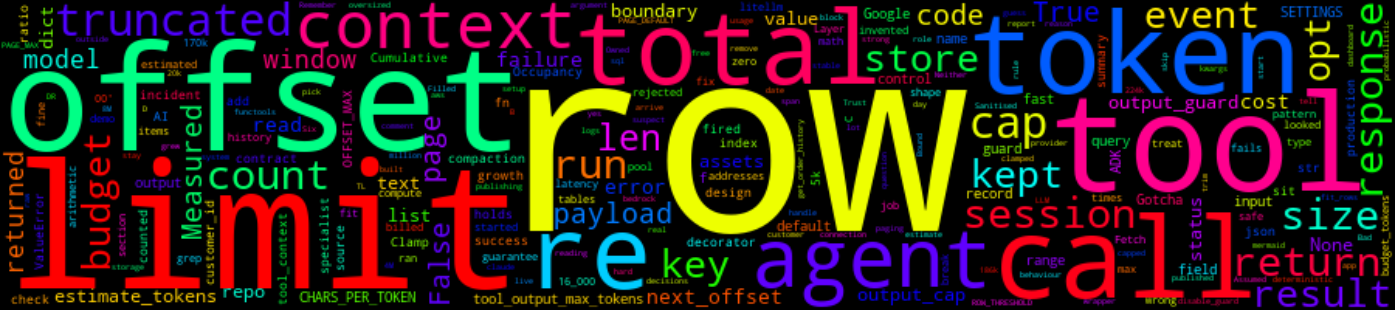
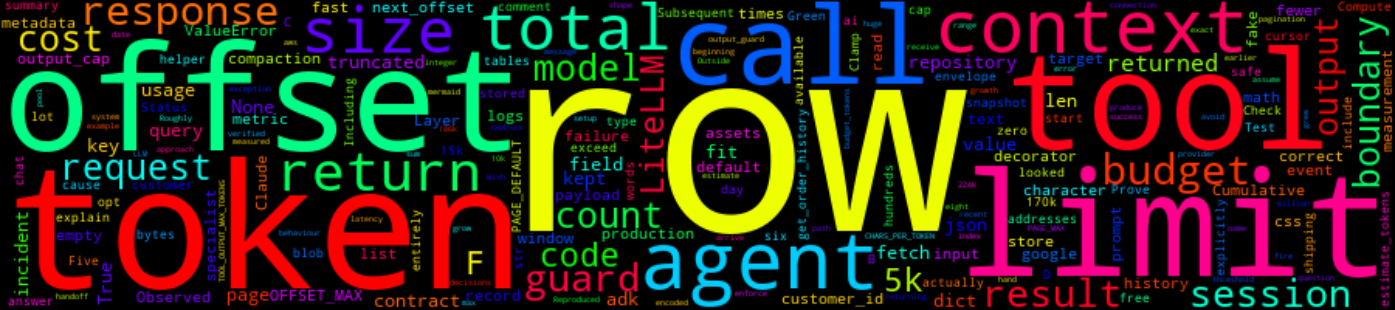
Update blog post title for clarity, add new images, and refine content for better readability

diff --git a/_posts/2026-10-23-a-0-1-second-tool-call-filled-my-agents-context-window.md b/_posts/2026-10-23-a-0-1-second-tool-call-filled-my-agents-context-window.md
@@ -1,6 +1,6 @@
 ---
 layout: post
-title: "A 0.1-Second Tool Call Filled My Agent's Context Window: Handling Large Tool Responses at Scale"
+title: "How a 0.1-Second Tool Call Flooded My AI Agent With 180,000 Tokens: Handling Large Tool Responses at Scale"
 date: 2026-10-23 22:34:12.000000000 +02:00
 use-mermaid: true
 css:
@@ -23,25 +23,24 @@ tags:
 
 ---
 
-> _Disclaimer: AI-assisted editing and structure. The incident, technical decisions, analysis, and opinions are mine. The domain, tables, SQL and code below are invented (an online store) so nothing here points at a real system. The measurements from the incident are real._
+> *Disclaimer: AI-assisted editing and structure. The incident, technical decisions, analysis, and opinions are mine. The domain, tables, SQL and code below are invented (an online store) so nothing here points at a real system. The measurements from the incident are real.*
 
 ---
 
-A user opened a chat with our AI agent, asked a follow-up question, and got an error two seconds later. Two seconds. That was not a timeout, that was the system slamming the door on the users face.
+A user opened a chat with our AI agent, asked a follow-up question, and got an error two seconds later. Two seconds. That was not a timeout. That was the system slamming the door in the user’s face.
 
-I went to opensearch expecting a crash from the logs and found nothing of the sort. Turn one ran for 8 minutes 39 seconds, made 15 LLM calls and 24 tool calls, and finished with zero errors. Turn two died about two seconds after its model call started. The one number I could pull from that turn was its context size: **463,976 tokens.** *(Yes, that is a lot of tokens. No, I did not type that much.)*
+I went to OpenSearch expecting a crash in the logs and found nothing of the sort. Turn one ran for 8 minutes 39 seconds, made 15 LLM calls and 24 tool calls, and finished with zero errors. Turn two died about two seconds after its model call started. The one number I could pull from that turn was its context size: **463,976 tokens.** *(Yes, that is a lot of tokens. No, I did not type that much.)*
 
-That number is where this story starts, not where it ends. I could show how the context grew. I couldn't show that it killed turn two. The last section says what I have and what I don't. *(The logs also didn't say much about exceptions in general. That's a different post.)*
+That number is where this story starts, not where it ends. I could show how the context grew. I couldn't show that it killed turn two. I’ll separate what I measured from what I suspect later in the post. *(The logs also didn't say much about exceptions in general. That's a different post.)*
 
 ---
 
 ## TL;DR
 
 The tool was correct. The design around it was not. A deterministic function returned exactly what it was asked for, and nothing at the boundary to the model said how much was too much.
-
 - A tool call that returned in **0.10 seconds** took a specialist agent's context from 5.5k to 186k tokens. Another agent went from 10k to as high as 224k after six parallel tool calls.
 - My first guard counted **rows** (200 max). Each row was about 900 tokens, so one call put roughly 180k tokens into context and the guard never fired. Every later LLM call in that turn re-sent it.
-- Cap by **tokens, not rows**, after the page size. A cap that is strong but not hard: one row bigger than the budget still goes out, so the tool must handle that row itself.
+- Cap by **tokens, not rows**, after the page size. A useful cap, not a hard guarantee: one row bigger than the budget still goes out, so the tool must handle that row itself.
 - Don't let the model add up numbers. Compute exact totals in code.
 - My guard was opt-in per tool, which means it **fails open**. That is the weakest part of what I built.
 
@@ -49,11 +48,15 @@ The tool was correct. The design around it was not. A deterministic function ret
 
 ## The Story
 
+The setup: a multi-agent system built on [Google ADK](https://google.github.io/adk-docs/), running Claude on AWS Bedrock through LiteLLM. An orchestrator hands the turn to a specialist agent. The specialist calls tools, reads the results, and writes an answer back.
+
+> If you haven't worked with multi-agent systems, think of the orchestrator as the person at the front desk. You ask about your order; it sends the question to the orders specialist. Ask where the parcel is; it calls in the shipping specialist. The specialists do the actual lookup, and the orchestrator helps get the answer back to you.
+
 {:refdef: style="text-align: center;"}
 ![fast tool call context growth]({{ "/assets/2026-10-23-fast-tool-call-context-growth.png" | relative_url }}){: loading="lazy"}
 {: refdef}
 
-The setup: a multi-agent system built on [Google ADK](https://google.github.io/adk-docs/), running Claude on AWS Bedrock through LiteLLM. An orchestrator hands the turn to a specialist agent. The specialist calls tools, reads the results, and writes an answer back.
+In this setup, Google ADK coordinates those agents, LiteLLM connects the application to the model, and Claude runs through AWS Bedrock. The database tools are ordinary application code. No magic there. The surprise is what happens **after** the tool has done its job.
 
 A tool's return value becomes a `function_response` event in the session. The next model call is built from the session's events, so that result is in the prompt for every later call in the same turn. The tool's job ends at the return. Its output does not.
 
@@ -64,9 +67,11 @@ I pulled up the token metrics and found two things that made me put my coffee do
 | Order history | 5.5k tokens | **186k tokens** | One tool call, 0.10 seconds |
 | Shipping | 10k tokens | **224k tokens** | Six parallel tool calls |
 
-The tool was fast. It also returned a *lot* of rows, very quickly.
+The tool was fast. It also returned a **lot** of rows, very quickly.
 
-Nothing was slow. Nothing errored. Every row was correct. The tool did what its docstring promised: "return the customer's orders". The customer just had hundreds of them, and I had never asked what "all the orders" costs when the reader is a language model that re-reads everything on every call.
+> Picture the customer asking, "What happened to my last few orders?" The specialist opens the order history, and instead of bringing back the handful of orders relevant to the question, it brings back the whole filing cabinet. That's an illustration, not a transcript of the real user's question. But it is a useful way of understanding the mistake: the lookup succeeded; we just let the answer to the lookup become much bigger than the answer the user needed.
+
+Nothing was slow. Nothing errored. Every row was correct. The tool did what its docstring promised: *"return the customer's orders"*. The customer just had hundreds of them, and I had never asked what *"all the orders"* costs when the reader is a language model that re-reads everything on every call.
 
 The wider logs told the same story. Over 7 days of production logs (counts only):
 
@@ -74,20 +79,27 @@ The wider logs told the same story. Over 7 days of production logs (counts only)
 - First failure came on turn 1 for 6 sessions, turn 2 for 3, turn 3 for 2 and turn 4 for 2. "Turn" here means completed responses logged before the failure. I did not verify session start times.
 - The context-size figure I logged at failure clustered near **1.4M** and **2.8M** tokens. I have not checked whether that is window size or cumulative input. Treat it as open until I have.
 
+
 ---
 
-## "But I Had a Guard!"
+## "But I Had a Guard! So I Thought"
 
-I mean I did. I want that on the record. We have a helper/decorator function that said: *if a tool returns more than 200 rows, truncate and warn.* Responsible adult behaviour right!
+I mean I did. I want that on the record. We have a helper/decorator function that says: ***if a tool returns more than 200 rows, truncate and warn.*** Responsible adult behaviour, right?
+
+{:refdef: style="text-align: center;"}
+![1793037839765]({{ "/assets/2026-10-23-a-0-1-second-tool-call-filled-my-agents-context-window-1793037839765.png" | relative_url }}){: loading="lazy"}
+{: refdef}
 
 A row limit caps rows, not tokens. Illustrative numbers, not measured:
 
-- 200 rows of 5 tokens each: 1,000 tokens. The row guard passes it, and it should.
-- 200 rows of 900 tokens each: 180,000 tokens. The row guard also passes it. Same rule, 180 times the cost.
+- 200 rows of 5 tokens each -> 1,000 tokens. The row guard passes it, as it should.
+- 200 rows of 900 tokens each -> 180,000 tokens. The row guard also passes it. Same rule, 180 times the cost.
 
-The tool returned fewer than 200 rows. *(Famous last words: "it's capped at 200, what's the worst that could happen?")* Each row carried free-text notes and nested fields, about 900 tokens per row. A single call was roughly 180k tokens, sitting comfortably under a limit that only knew how to count rows. Worse, the helper treated dict-shaped payloads as empty, so those never tripped it at all.
+Well the tool returned fewer than 200 rows. **(Famous last words: "it's capped at 200, what's the worst that could happen?")** Each row carried free-text notes and nested fields, about 900 tokens per row. A single call was roughly 180k tokens, sitting comfortably under a limit that only knew how to count rows. Worse, the helper treated dict-shaped payloads as empty, so those never tripped it at all.
 
-I also assumed history compaction would rescue me. It doesn't. The current setup trims old tool content but keeps the most recent events raw, so a huge result inside the retained window just sits there. Compaction is a late, lossy backstop. It is not a control.
+> Here's the trap. Imagine a rule saying a delivery van may carry only 200 boxes. Sensible, until you discover the boxes can be anything from a packet of paper clips to a refrigerator. Counting boxes tells you nothing about the weight. I counted rows. The model had to carry their contents.
+
+The assumption I had was that history compaction would rescue me. In this setup, it didn’t. The current setup trims old tool content but keeps the most recent events raw, so a huge result inside the retained window just sits there. Compaction is a late, lossy backstop. It is not a control.
 
 For illustration:
 
@@ -99,24 +111,32 @@ For illustration:
 
 ## The Boundary Nobody Owned
 
-Two kinds of component met in that tool call. The tool is deterministic: same query, same rows, same output every time. The model is probabilistic: it reads whatever arrives and writes the next step from it. Each side did its job. The problem sat in the gap between them.
+Two very different kinds of component met in that tool call.
+- The tool is **deterministic**: same query, same rows, same output every time.
+- The model is **probabilistic**: it reads what arrives and decides what to do next.
 
-The tool's contract said "return the customer's orders". It said nothing about size, and the model's contract said nothing about how much input it can take. Neither side owned the number that mattered most, so a single fast call could fill the window and the next call would pay for it again.
+Each side did its job. The problem sat in the gap between them.
 
-I can't prove this shape is common. It is one incident. But any time deterministic output feeds a model, the same gap is there. The controls in this post sit at that boundary:
+The tool's contract said *"return the customer's orders"*. It said nothing about size, and our integration contract did not enforce a limit on what the model would receive. Neither side owned the number that mattered most, so a single fast call could fill the window and the next call would pay for it again.
+
+I can't prove this shape is common. It is one incident, a single data point. But any time deterministic output feeds a model, the same gap is there. The controls in this post sit at that boundary:
 
 - **At the source:** the query decides what is fetched.
 - **At the boundary:** a wrapper sizes the output, pages it, and reports the total, whatever the tool returned.
 - **Outside the context:** the full result lives in a store, and the model holds only a page and a key.
 
-The rest of the post is these three controls, and the reason each one exists.
+The rest of the post discussess these three controls, and the reason each one exists.
 
 ## Why One Result Costs More Than Once
 
 Two numbers get mixed up here. They are different things.
 
+{:refdef: style="text-align: center;"}
+![Illustration](https://i.makeagif.com/media/5-21-2015/zlQRKF.gif){: loading="lazy"}
+{: refdef}
+
 - **Window occupancy:** how many tokens the model sees on one call. A 15k result adds 15k to it, and it stays until something removes it.
-- **Cumulative input:** the sum of input tokens over every call in the turn. Each call re-sends the whole context, so one result is billed once for every later call.
+- **Cumulative input:** the sum of input tokens over every call in the turn. In the observed call pattern, later requests include that result again. So a large result can contribute to input usage repeatedly, not just when the tool returns.
 
 Illustrative numbers, not measured. Assume 5k of history, a 15k tool result that arrives after call 2, and 10 model calls in the turn. Output tokens are left out.
 
@@ -127,26 +147,33 @@ Illustrative numbers, not measured. Assume 5k of history, a 15k tool result that
 
 Occupancy at call 10 goes from 5k to 20k. Cumulative input goes from 50k to 170k. One 15k result adds 120k billed input across the turn.
 
-So a result that arrives on call 2 costs more than the same result on call 14. And the "over 1 million input tokens" figure in the TL;DR is a sum across calls, not a window size.
+> That is the bit that caught me. It's like a meeting where everyone must reread the entire minutes before speaking. Someone drops a 200-page attachment into the minutes, and suddenly every follow-up question comes with 200 pages of homework. The file didn't get bigger. The number of times it had to be read did.
+
+For clarity, the table is deliberately simplified. Real requests also have instructions, messages, tool metadata and changing output; provider billing can involve caching and other details. The point is the repeated *input*, not an exact invoice calculation.
+
+So a result that arrives on call 2 costs more than the same result on call 14. And the *"over 1 million input tokens"* figure in the TL;DR is a sum across calls, not a window size.
 
 ---
 
 ## How ADK Holds the Context
 
-Google ADK keeps each session as a list of **events**. A user message, a model reply, a tool call and a tool result are each one event. Every model call is built from the session's events, so a big tool result stays in the session until something removes it.
+Google ADK keeps each session as a list of **events**. User messages, model replies, tool calls and tool results are represented in session events. Model requests are constructed from session history, subject to the framework’s context handling. A big tool response may therefore keep appearing in later requests; the persisted event count alone does not prove exactly which content was sent.
 
-- The orchestrator picks which specialist gets the turn. The specialist's tool calls and results are written to the same session.
+> Think of the session database as a notebook and the model request as the pages you actually hand to the reader. Finding 70 pages in the notebook doesn't prove the reader saw all 70. That's why I distinguish **events stored** from **events included in the next prompt**. I had evidence of the former, not a complete end-to-end trace of the latter after compaction.
+
+
+- The orchestrator routes work to a specialist. The specialist’s tool calls and responses appear in the session history.
 - A tool result is stored as a `function_response` event.
-- Compaction adds a summary event. It records a start and end time for the range it covers. The raw events in that range stay in the database.
+- Compaction adds a summary event. It records a start and end time for the range it covers. In the production records I inspected, the raw events in that range were still present in the database. That is a storage observation, not proof they were all sent to the model.
 
-What I measured on production (counts only, names removed):
+What I measured on production (counts only):
 
 - The 8 newest compaction events each covered **2 to 35 raw events**. Their sessions kept **44 to 77 events** in total.
 - In 3 of those sessions, I counted raw tool results inside the compacted range: **2, 0 and 10**.
 
 What I read in the code but did not measure end to end: what the model sees after compaction. I still need to verify that in practice.
 
-The check I ran to see how much one time range holds. Table and column names are invented, and I have not run this against a database (hides):
+An illustrative query for counting events inside a time range follows:
 
 ```sql
 -- How many raw events fall inside one compaction range?
@@ -155,10 +182,10 @@ FROM agent_events
 WHERE app_name = 'my_app'
   AND user_id = 'user-123'
   AND session_id = 'sess-456'
-  AND event_time BETWEEN '2026-10-22 00:00' AND '2026-10-23 00:00';
+  AND event_time BETWEEN '2026-10-22 00:00'::date AND '2026-10-23 00:00'::date;
 ```
 
-And the check that showed the cost problem. Same invented names:
+I also investigated the query-plan cost of a time-only event lookup:
 
 ```sql
 EXPLAIN
@@ -167,7 +194,7 @@ FROM agent_events
 WHERE event_time >= now() - interval '30 days';
 ```
 
-On production, a 30-day range like this had **no index to use**. The plan was a parallel sequential scan with cost **228,490**. Lookups by `app, user and session` used a composite index. A time-only range had no index at all. Memo-to-self: Check the plan before you trust a range query.
+On production, a 30-day range like this had **no index to use**. The plan was a parallel sequential scan with cost **228,490**. Lookups by `app, user and session` used a composite index. A time-only range had no index at all. **Memo-to-self:** Check the plan before you trust a range query.
 
 ---
 
@@ -175,11 +202,11 @@ On production, a 30-day range like this had **no index to use**. The plan was a 
 
 ```mermaid
 flowchart TB
-    A[Agent calls tool] --> B[Clamp limit<br/>and offset]
-    B --> C[Query with LIMIT<br/>and needed fields]
-    C --> D[Fit rows to<br/>token budget]
-    D --> E[Return rows<br/>+ paging + totals]
-    D --> F[(Stored outside<br/>the context)]
+    A[Agent calls tool] --> B[Clamp limit\<br/>and offset]
+    B --> C[Query with LIMIT\<br/>and needed fields]
+    C --> D[Fit rows to\<br/>token budget]
+    D --> E[Return rows\<br/>+ paging + totals]
+    D --> F[(Stored in session db \<br/>the context)]
     F -. read in pages by key .-> A
 ```
 
@@ -189,15 +216,20 @@ Three things get mixed up in this design. They are not the same:
 - **Token estimation** guesses how big the rows are. It is a guess, so it can be wrong in either direction.
 - **A hard budget** guarantees the output never exceeds N tokens. This code does not give that guarantee. One oversized row still goes out.
 
+> Put another way: pagination decides how many suitcases you send. Token estimation guesses what they weigh. A hard budget is the scale at the airport that refuses an overweight suitcase. My code has the first two; it does not have the third. And calling a guess a guarantee doesn't make the luggage any lighter.
+
+
 ### Layer 1: shrink at the source
 
 The cheapest token is the one you never fetch. So:
 
 - `LIMIT` to the most recent N rows.
 - Return only the fields the model needs. The free-text notes and nested blobs were most of the weight, and the model never needed them to answer anything.
-- Return the true total in the summary, so "showing 17 of 791" is a fact and not a guess.
+- Return the true total in the summary, so *"showing 17 of 791"* is a fact and not a guess.
 
-And **compute totals in code.** I watched an agent summarise a table of 10 items that sum to 620 and confidently report 700. Twice. Same answer both runs and it wen't like "trust me bro". Re-reading the table didn't help. So now the tool returns the exact count, sum and group-by totals, and the prompt says: quote the totals, never add amounts yourself. (LLMs are brilliant at many things. Arithmetic on a markdown table is not one of them.)
+Consider a customer asking, "How much did I spend last month?" The agent might need hundreds of orders to discover that total, but the user needs one number, perhaps with a breakdown. The database can calculate it exactly with a sum. Passing every receipt to the LLM and hoping it adds them correctly is a surprisingly expensive way to use a calculator.
+
+And **compute totals in code.** I watched an agent summarise a table of 10 items that sum to 620 and confidently report 700. Twice. Same answer both runs and it went with the equivalent of *“trust me, bro”*. Re-reading the table didn't help. So now the tool returns the exact count, sum and group-by totals, and the prompt says: *quote the totals, never add amounts yourself.* (LLMs are brilliant at many things. Arithmetic on a markdown table is not one of them.)
 
 ### Layer 2: cap by tokens, not rows
 
@@ -276,13 +308,13 @@ Edge cases the code does not currently handle:
 Four decisions in there matter more than the arithmetic:
 
 1. **The cap runs after the page size.** A model that asks for `limit=1000000` gets 200 at most, and the token fit trims it further. The cap is strong, but not hard: one row over budget still goes out (gotcha 3).
-2. **Model-supplied arguments get clamped, and bad ones fail loudly.** Negative offset or zero limit? Error. Never a silent fallback to some default. *A guard the caller can override is not a guard.*
+2. **Model-supplied arguments get clamped, and bad ones fail loudly.** Negative offset or zero limit? Error. Never a silent fallback to some default. **A guard the caller can override is not a guard.**
 3. **The paging block tells the model the data was cut** (`truncated`, `total`, `next_offset`). The prompt then tells it to say so to the user, and to page only if the question really needs more.
 4. **Cap off must behave exactly like before.** I kept a switch so I can compare behaviour with and without it. Remember that, it comes back later.
 
 ### Where the cap sits: the `output_guard` decorator
 
-Every tool in our agent is wrapped by an `@output_guard` decorator. The wrapper runs the tool, then decides what goes back to the model. This is a sanitised copy of the shape, with names changed and the session storage and paging left out.
+Every tool in our agent is wrapped by an `@output_guard` decorator. The wrapper runs the tool, then decides what goes back to the model.
 
 ```python
 import asyncio
@@ -346,7 +378,10 @@ The investigatory script was run on fake rows, so its numbers differ from the re
 
 ### Layer 3: store the full result outside the context
 
-The model doesn't need 791 rows. It needs the first page, the total, and a way to ask for more. So the full result goes into a session store under a key, and the model gets a page plus that key. A second tool, `read_stored_data(key, limit, offset)`, reads the following pages, with the same clamps.
+For this question, the model doesn’t need 791 rows. It needs the first page, the total, and a way to ask for more.
+
+Say the customer wants the latest ten orders. Give the agent ten orders and the total count. If the follow-up is *"What about the ones from June?"*, it can request the next relevant page by key. There's no reason to stuff every order into the first reply just in case the customer might ask.
+So the full result goes into a session store under a key, and the model gets a page plus that key. A second tool, `read_stored_data(key, limit, offset)`, reads the following pages, with the same clamps.
 
 **Shipped now:** token caps on the tools that opted in, paging blocks, exact totals, and the store-and-page pattern.
 
@@ -356,20 +391,21 @@ One more trick for flat tables: rendering rows as a markdown table cost about 2.
 
 ---
 
-## Gotchas (a.k.a. the stuff that bit me)
+## Gotchas (the stuff that bit me)
 
-1. **My own metering lied.** The token estimate I logged counted text parts only, so on tool-heavy calls it read close to zero. I was debugging a context problem with a gauge that couldn't see the context. *(Ah yes, the classic "the dashboard is green because the dashboard is blind".)* Fix the gauge first: log the real size per call, split by role.
+1. **My own metering lied.** The token estimate I logged counted text parts only, so on tool-heavy calls it read close to zero. I was debugging a context problem with a gauge that couldn't see the context. **(Ah yes, the classic "the dashboard is green because the dashboard is blind".)** Fix the gauge first: log the real size per call, split by role.
 2. **Concurrent count queries overflowed the connection pool.** A page query plus a count query for every parent record, all at once, ate a pool of 10 connections (and 10 more waiting) and tripped its circuit breaker. Run the second round after the first.
 3. **One row bigger than the budget.** If the first row alone exceeds the budget, `fit_rows` returns 0 and `next_offset` points back at the same row. The model loops. My version returns at least one row, so that row goes out over budget. A better version would also trim the fat fields inside that row.
 4. **Summaries and side lists count too.** If a customer has hundreds of saved addresses, a neat little "list of addresses" in your summary can eat the whole budget by itself. Bound them, and report the true total.
-5. **A stale comment hid the real limit.** A config comment said the cap was off. The value next to it was a 16,000-token cap. Trust the value, not the comment.
-6. **A guard that was switched off.** Our query audit logged problems but its blocking was off, so nothing was ever stopped. Also, by reading the code, I found one read tool with no cap on its result. Both are fail-open. Check that each guard is actually on.
+5. **A guard that was switched off.** Our query audit logged problems but its blocking was off, so nothing was ever stopped. Also, by reading the code, I found one read tool with no cap on its result. Both are fail-open. Check that each guard is actually on.
 
 ---
 
 ## What would have caught this earlier
 
 None of this needed new tooling. Four signals would have shown the problem before the failures:
+
+If I had to explain this to someone staring at an all-green dashboard: we were watching **how long** the tool took, not **how much** it delivered. A tap can fill a glass or a swimming pool quickly depending on the pipe; the stopwatch won't tell you how much water went through it. That is why tool output size belongs next to latency in the trace.
 
 - **Tool result size, per call.** Estimated tokens and the tool name, logged on every call. A 0.10-second call that returns about 180k tokens is visible here. Latency alone was not.
 - **Occupancy per LLM call, by role.** Gotcha 1 is what hid this. Once the gauge saw the tool results, the growth was obvious.
@@ -402,7 +438,7 @@ This is the section I'd want to read, so here it is, no varnish.
 
 The admission from the intro, plainly: I can't prove what killed turn two. Bedrock throttling, a replayed history the model rejected, and the context limit were all on the list. The logs didn't pick one. Context size is the lead suspect because it's the one thing I measured that grew fast. That's a reason to fix it. It is not proof that it did it.
 
-And the weakest design choice: the opt-in. *Every tool author has to remember to turn the cap on.* A guard that depends on remembering fails open, which is precisely the thing I tell other people not to do. If I did it again, the cap would be on by default at the one place every tool call passes through, and a tool would opt out only with a written reason. Lesson learned, the slightly embarrassing way.
+And the weakest design choice: the opt-in. **Every tool author has to remember to turn the cap on.** A guard that depends on remembering fails open, which is precisely the thing I tell other people not to do. If I did it again, the cap would be on by default at the one place every tool call passes through, and a tool would opt out only with a written reason. Lesson learned, the slightly embarrassing way.
 
 ---
 
@@ -423,10 +459,8 @@ And the weakest design choice: the opt-in. *Every tool author has to remember to
 
 Tools that return fast are not tools that return small. The agent can't tell the difference, and neither can your latency dashboard.
 
-The tool did its job. The failure was architectural: a deterministic component handed unbounded output to a probabilistic one, and no control sat at that handoff. The fix is not a better decorator. It is a boundary with a size contract, enforced where every call passes through, and tested on the cases that break it: the big result, the single oversized row, the bad argument, and the guard turned off.
+The tool did its job. The design flaw I could verify was architectural: a deterministic component handed an enormous output to a probabilistic one without a reliably enforced size contract. Whether that specifically killed turn two remains unproven. The fix is not a better decorator. It is a boundary with a size contract, enforced where every call passes through, and tested on the cases that break it: the big result, the single oversized row, the bad argument, and the guard turned off.
 
 The principle I'd keep: **a tool's output size is part of its contract.** If nothing states the size, the model's context becomes the place where you find out.
 
-What is the largest response your agents' tools can return today, and what enforces that number?
-
-If you're running tool-calling agents in production, go open the metrics for whichever agent's context grows the fastest and find the single tool call that moved it. I'd bet money it took less than a second.
+If you’re running tool-calling agents in production, find the tool call that made your agent’s context grow the fastest. Then ask yourself: **what is the largest response that tool can return, and what actually enforces that number?** I’d bet the call was faster than you think.
